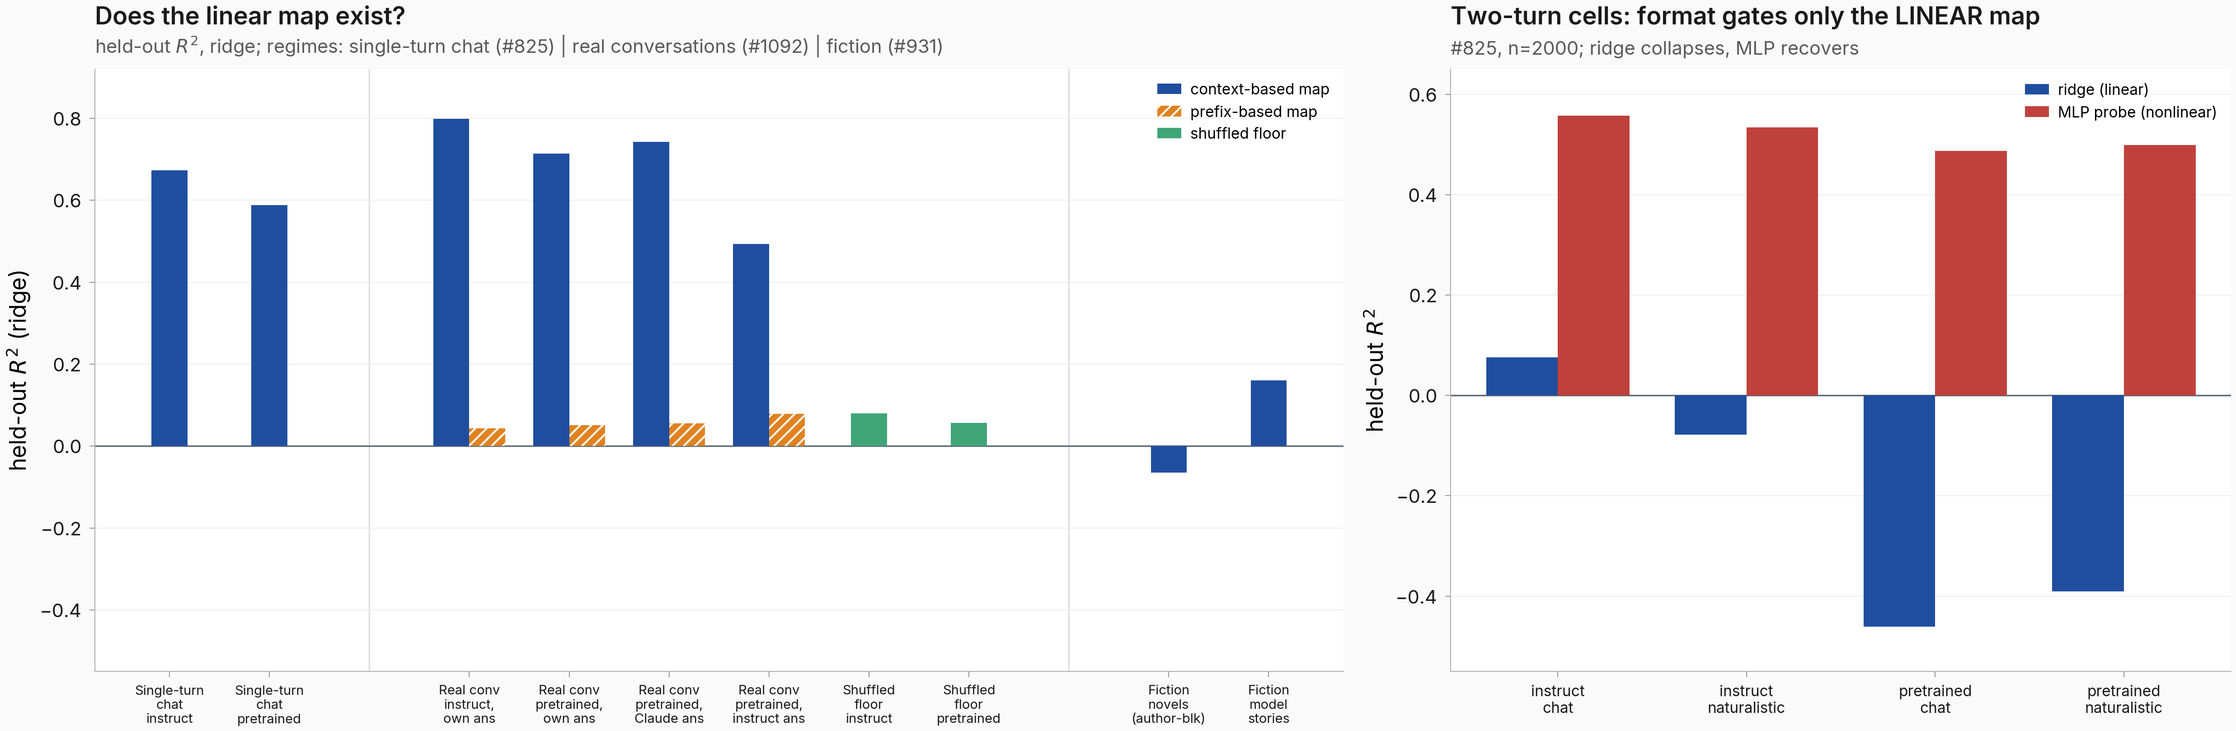
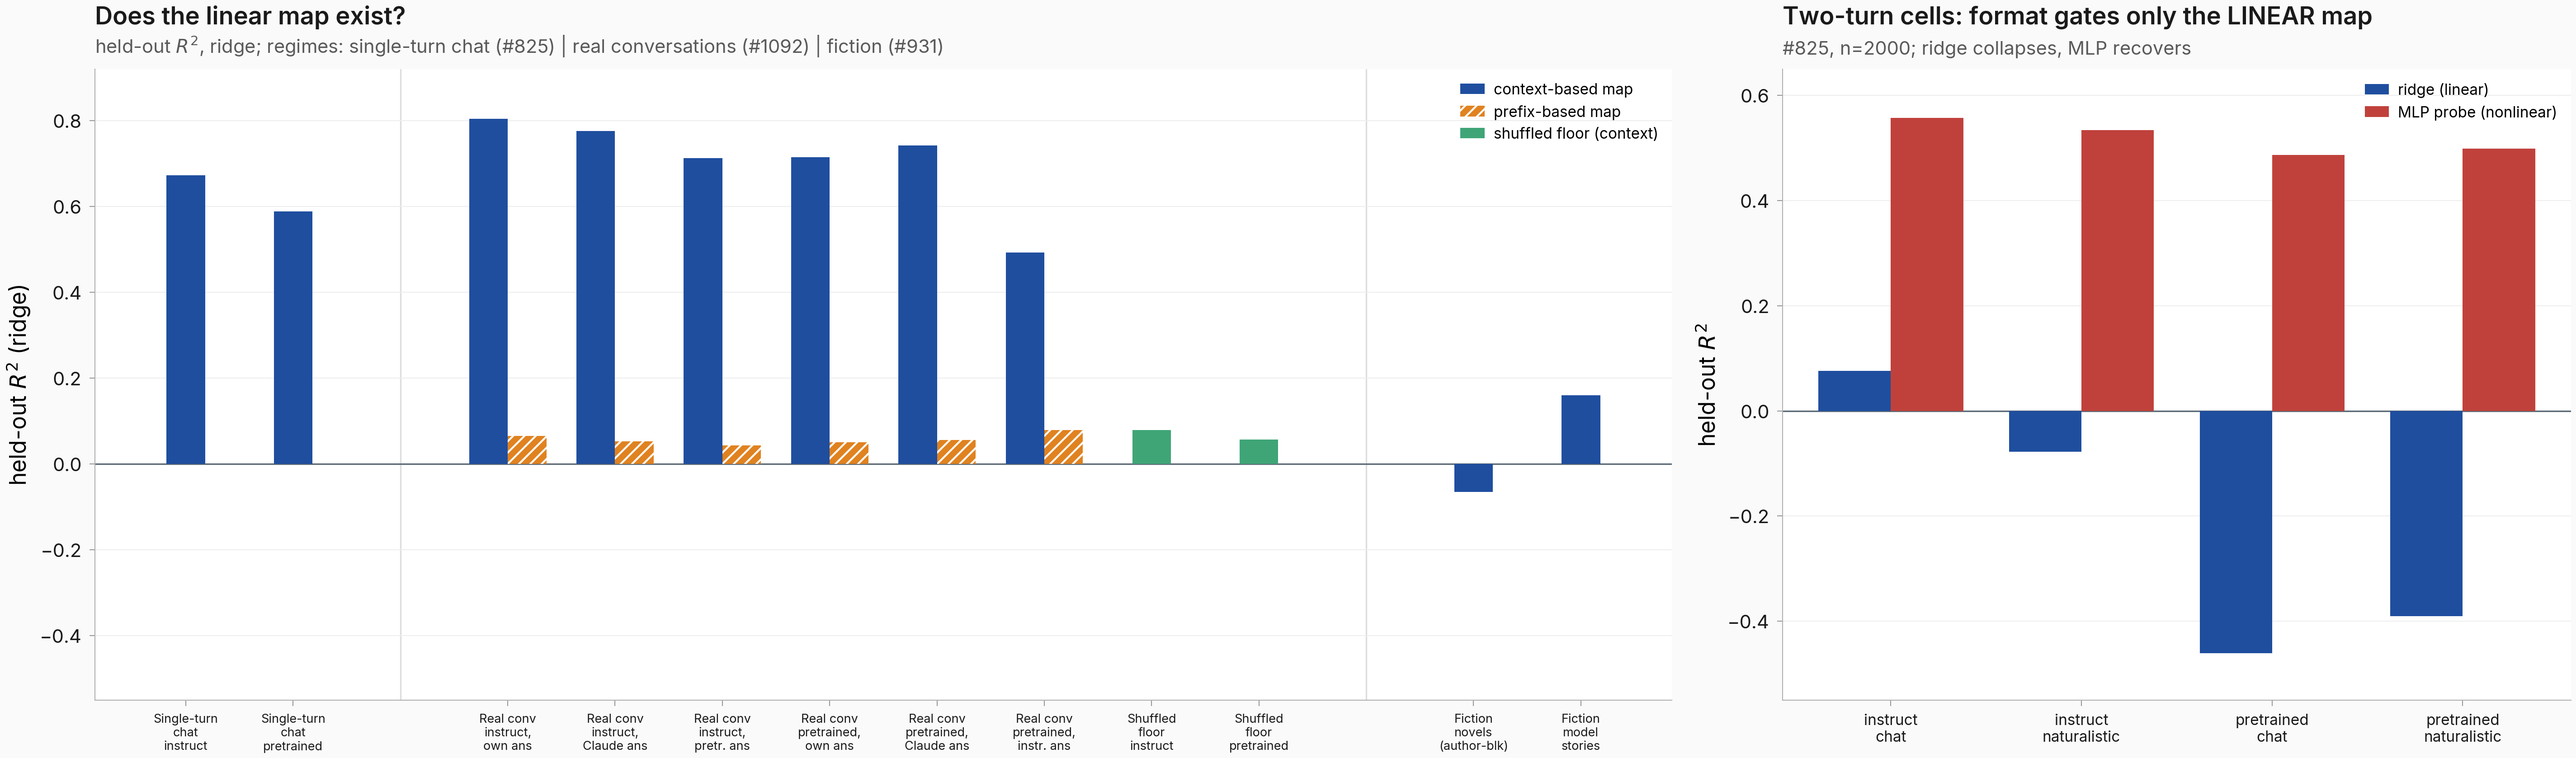
figures: correct #1092 panel-A cells from authoritative results table
Panel A of map_strength_across_regimes now uses the six coherent #1092 cells
plus the two shuffled cells with context AND prefix R2 taken verbatim from the
first results table in task 1092's body (fixes mis-assigned prefix values;
adds the previously-omitted Instruct rows).

diff --git a/figures/summaries/context_answer_map/make_figures.py b/figures/summaries/context_answer_map/make_figures.py
@@ -48,50 +48,42 @@ def _augment_meta(stem: str, value_sources: dict) -> None:
 # ---------------------------------------------------------------------------
 def figure1() -> None:
     fig, (axA, axB) = plt.subplots(
-        1, 2, figsize=(16.5, 5.4), gridspec_kw={"width_ratios": [1.6, 1.0]}
+        1, 2, figsize=(19.0, 5.6), gridspec_kw={"width_ratios": [2.0, 1.0]}
     )
 
     # ---- Panel A: does the linear map exist? (held-out R^2, ridge) ----
-    # Each entry: (x position, label, context R^2, prefix R^2 or None, shuffled R^2 or None)
-    # Regime groups separated by gaps in x.
-    # Group 1 (#825 single-turn chat): x 0,1
-    # Group 2 (#1092 real conversations): x 3,4,5,6 (context+prefix), 7,8 (shuffled floor)
-    # Group 3 (#931 fiction raw text): x 10,11
-    ctx_x, ctx_h, ctx_lbl = [], [], []
+    # #1092 context+prefix values are VERBATIM from the first results table in
+    # task 1092's body (## Results, "Context-based maps reach ... 0.71-0.80 ...").
+    # Six coherent cells + the two shuffled-pairing floor cells.
+    W = 0.36
+    ctx_x, ctx_h = [], []
     pfx_x, pfx_h = [], []
     shf_x, shf_h = [], []
 
-    def add_ctx(x, label, h):
-        ctx_x.append(x)
-        ctx_h.append(h)
-        ctx_lbl.append((x, label))
-
-    # Group 1 -- single-turn chat (LMSYS n=5000, #825)
-    add_ctx(0, "Single-turn chat\ninstruct", 0.673)
-    add_ctx(1, "Single-turn chat\npretrained", 0.588)
-    # Group 2 -- real conversations (prefix x query, #1092): context + prefix arms
+    # Group 1 -- single-turn chat (LMSYS n=5000, #825): context only
+    ctx_x += [0, 1]
+    ctx_h += [0.673, 0.588]
+    # Group 2 -- real conversations (prefix x query, #1092): 6 coherent cells,
+    # each context + prefix (values verbatim from the #1092 results table).
     real_cells = [
-        (3, "Real conv\ninstruct,\nown ans", 0.799, 0.043),
-        (4, "Real conv\npretrained,\nown ans", 0.714, 0.051),
-        (5, "Real conv\npretrained,\nClaude ans", 0.742, 0.056),
-        (6, "Real conv\npretrained,\ninstruct ans", 0.493, 0.079),
+        (3, 0.8043, 0.0651),  # Instruct, own answers
+        (4, 0.7763, 0.0527),  # Instruct, Claude answers
+        (5, 0.7122, 0.0430),  # Instruct, pretrained answers
+        (6, 0.7144, 0.0511),  # Pretrained, own answers
+        (7, 0.7423, 0.0556),  # Pretrained, Claude answers
+        (8, 0.4927, 0.0788),  # Pretrained, instruct answers
     ]
-    W = 0.36
-    for x, label, cval, pval in real_cells:
-        add_ctx(x - W / 2, label, cval)  # left-shifted context bar
-        pfx_x.append(x + W / 2)
+    for x, cval, pval in real_cells:
+        ctx_x.append(x - W / 2)  # left-shifted context bar
+        ctx_h.append(cval)
+        pfx_x.append(x + W / 2)  # right-shifted prefix bar
         pfx_h.append(pval)
-    # replace the last four ctx labels' anchor x with the group center for ticks
-    # (handled below by using cell-center ticks)
-    # Shuffled-pairing context floor (#1092)
-    shf_cells = [(7, "Shuffled\nfloor\ninstruct", 0.08), (8, "Shuffled\nfloor\npretrained", 0.057)]
-    for x, label, val in shf_cells:
-        shf_x.append(x)
-        shf_h.append(val)
-        ctx_lbl.append((x, label))
-    # Group 3 -- fiction raw text (#931)
-    add_ctx(10, "Fiction\nnovels\n(author-blk)", -0.065)
-    add_ctx(11, "Fiction\nmodel\nstories", 0.16)
+    # #1092 shuffled-pairing floor = context R^2 of the two shuffled cells (verbatim)
+    shf_x += [9, 10]
+    shf_h += [0.0792, 0.0565]
+    # Group 3 -- fiction raw text (#931): context only
+    ctx_x += [12, 13]
+    ctx_h += [-0.065, 0.16]
 
     axA.axhline(0.0, color=NEUTRAL, linewidth=0.8, zorder=1)
     axA.bar(ctx_x, ctx_h, width=W, color=PRIMARY, label="context-based map", zorder=3)
@@ -105,27 +97,29 @@ def figure1() -> None:
         label="prefix-based map",
         zorder=3,
     )
-    axA.bar(shf_x, shf_h, width=W, color=CONTROL, label="shuffled floor", zorder=3)
+    axA.bar(shf_x, shf_h, width=W, color=CONTROL, label="shuffled floor (context)", zorder=3)
 
     # X ticks: cell centers. For the paired real-conv cells the tick sits at the
     # cell integer (between the two offset bars).
-    tick_pos = [0, 1, 3, 4, 5, 6, 7, 8, 10, 11]
+    tick_pos = [0, 1, 3, 4, 5, 6, 7, 8, 9, 10, 12, 13]
     tick_lbl = [
         "Single-turn\nchat\ninstruct",
         "Single-turn\nchat\npretrained",
         "Real conv\ninstruct,\nown ans",
+        "Real conv\ninstruct,\nClaude ans",
+        "Real conv\ninstruct,\npretr. ans",
         "Real conv\npretrained,\nown ans",
         "Real conv\npretrained,\nClaude ans",
-        "Real conv\npretrained,\ninstruct ans",
+        "Real conv\npretrained,\ninstr. ans",
         "Shuffled\nfloor\ninstruct",
         "Shuffled\nfloor\npretrained",
         "Fiction\nnovels\n(author-blk)",
         "Fiction\nmodel\nstories",
     ]
     axA.set_xticks(tick_pos)
-    axA.set_xticklabels(tick_lbl, fontsize=7)
+    axA.set_xticklabels(tick_lbl, fontsize=6.5)
     # faint regime separators (reference lines, allowed)
-    for xsep in (2.0, 9.0):
+    for xsep in (2.0, 11.0):
         axA.axvline(xsep, color="#DDDDDD", linewidth=0.8, zorder=0)
     axA.set_ylabel("held-out $R^2$ (ridge)")
     axA.set_ylim(-0.55, 0.92)
@@ -178,22 +172,26 @@ def figure1() -> None:
             "panelA_context": {
                 "single_turn_chat_instruct=0.673": 825,
                 "single_turn_chat_pretrained=0.588": 825,
-                "realconv_instruct_own_answers=0.799": 1092,
-                "realconv_pretrained_own_answers=0.714": 1092,
-                "realconv_pretrained_claude_answers=0.742": 1092,
-                "realconv_pretrained_instruct_answers=0.493": 1092,
+                "realconv_instruct_own_answers=0.8043": 1092,
+                "realconv_instruct_claude_answers=0.7763": 1092,
+                "realconv_instruct_pretrained_answers=0.7122": 1092,
+                "realconv_pretrained_own_answers=0.7144": 1092,
+                "realconv_pretrained_claude_answers=0.7423": 1092,
+                "realconv_pretrained_instruct_answers=0.4927": 1092,
                 "fiction_novels_author_blocked=-0.065": 931,
                 "fiction_model_stories=0.16": 931,
             },
             "panelA_prefix": {
-                "realconv_instruct_own_answers=0.043": 1092,
-                "realconv_pretrained_own_answers=0.051": 1092,
-                "realconv_pretrained_claude_answers=0.056": 1092,
-                "realconv_pretrained_instruct_answers=0.079": 1092,
+                "realconv_instruct_own_answers=0.0651": 1092,
+                "realconv_instruct_claude_answers=0.0527": 1092,
+                "realconv_instruct_pretrained_answers=0.0430": 1092,
+                "realconv_pretrained_own_answers=0.0511": 1092,
+                "realconv_pretrained_claude_answers=0.0556": 1092,
+                "realconv_pretrained_instruct_answers=0.0788": 1092,
             },
             "panelA_shuffled_floor": {
-                "instruct=0.08": 1092,
-                "pretrained=0.057": 1092,
+                "instruct_context=0.0792": 1092,
+                "pretrained_context=0.0565": 1092,
             },
             "panelB_two_turn": {
                 "instruct_chat_ridge=0.076,mlp=0.557": 825,
